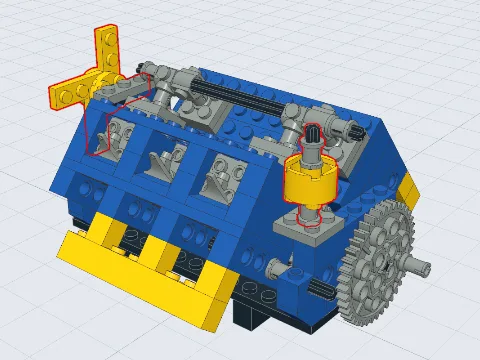
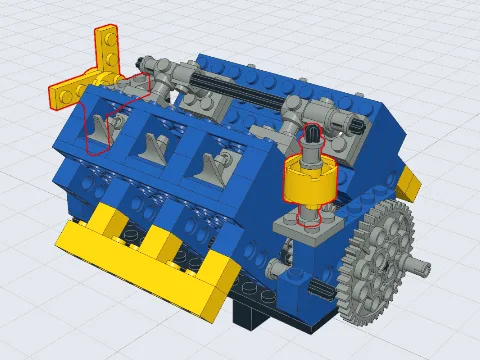
Stand the 858 V-6's cylinder banks a stud out on the bricks they hang from, so its crank turns in full
The model had each bank flush on the four 1 x 4 Technic bricks it hangs from, so the banks leaned 102 degrees apart, the crankshaft's gears were built into both, and the pistons ran into the taps at the cylinders' ends. With each bank a stud further out on those bricks, and the feet under them, the banks lean about 86 degrees apart and no two parts overlap; each tap stands as far from the crankshaft as on the boxer engine, which uses the same cylinder assembly. Peeron's scans of the instructions (8858-2) show the banks hung this way but are too coarse to show the stud; models/technic-sets.csv records the correction.

The V-6 is no longer WIP: README card and status line, data/wip-models.json, its function's source, a test of the banks' angle and the taps' distance, thumbnail and joints baseline.

diff --git a/tests/sets/858-auto-engines.test.ts b/tests/sets/858-auto-engines.test.ts
@@ -150,6 +150,22 @@ describe('858 Auto Engines: the V-6 engine', () => {
     expect(engine.turn(block, 0.5)).toBeCloseTo(0, 6);
   });
 
+  it("stands each bank a stud out on the 1 x 4 Technic bricks it hangs from (its file had them flush, so the banks leaned 102 degrees apart and the pistons ran into the taps; models/ corrects that): the banks lean about 86 degrees apart, and each tap stands as far from the crankshaft along its cylinder as on the boxer engine", () => {
+    const boxer = load('models/858-Auto Engines-Boxer Engine.mpd');
+    // How far a tap stands from the crankshaft (the x axis in the V-6, at y -38 in the boxer),
+    // along its cylinder (the tap's own z axis), and that axis.
+    const out = (part: { matrix: { elements: number[] } }, crankY: number) => {
+      const e = part.matrix.elements;
+      return { distance: Math.abs((e[13] - crankY) * e[9] + e[14] * e[10]), axis: [e[9], e[10]] };
+    };
+    const taps = parts.filter((p) => p.name === '3496c01.dat').map((p) => out(p, 0));
+    const boxerTaps = boxer.parts.filter((p) => p.name === '3496c01.dat').map((p) => out(p, -38));
+    expect(taps).toHaveLength(6);
+    for (const t of [...taps, ...boxerTaps]) expect(t.distance).toBeCloseTo(boxerTaps[0].distance, -0.5);
+    const [a, b] = [taps[0].axis, taps[5].axis];
+    expect((Math.acos(a[0] * b[0] + a[1] * b[1]) * 180) / Math.PI).toBeCloseTo(86.5, 0);
+  });
+
   it('turns its crank like a knob, as a drag would: the frame is the bigger bank, but the block the crankshaft turns in is held to it', () => {
     const crankshaft = mech.bodyOf[133];
     expect(kin.parentLink(crankshaft)!.parent).toBe(mech.bodyOf[0]);

diff --git a/README.md b/README.md
@@ -56,7 +56,7 @@ Read straight from their files in the [LDraw Official Model Repository](https://
 </tr>
 <tr>
 <td align="center" valign="top" width="33%"><a href="https://erik-larsen.github.io/kinebrick/?model=858-Auto+Engines-Inline+Engine&autospin=43"><img src="media/thumbs/858-auto-engines-inline-engine.webp" width="260" alt="858 Inline Engine"></a><h3><a href="https://erik-larsen.github.io/kinebrick/?model=858-Auto+Engines-Inline+Engine&autospin=43">858 Inline Engine</a><br><sub><i>1980</i></sub></h3>Three pistons, and a camshaft whose pins lift push rods that tip the valves.<details><summary>Details</summary><div align="left"><sub>Turn the crank, the 40 tooth gear with a pin for a handle, or Ctrl-click it as the card does, and its three pistons run up and down, rubber bands turn the fan and the distributor, and four pairs of 24 tooth gears turn the camshaft as fast as the crankshaft. Pins on the camshaft's gears lift the three push rods in turn, each up to 14 LDU, and each rod tips its valve's rocker on the axle across the top; between pins, a rod drops back onto the plate it stands through, and its rocker onto the rod, or the studs under it. KineBrick keeps each resting on whatever is highest under it, as gravity would. Its file had the camshaft 2 LDU off the hole it runs in, so its gears missed; that's corrected. Its round cap and its fan's plates, which meet the end of their axle pin rather than going on it, don't attach yet; they move with what they're next to.</sub></div></details><br></td>
-<td align="center" valign="top" width="33%"><a href="https://erik-larsen.github.io/kinebrick/?model=858-Auto+Engines-V-6+Engine&autospin=133"><img src="media/thumbs/858-auto-engines-v-6-engine.webp" width="260" alt="858 V-6 Engine"></a><h3><a href="https://erik-larsen.github.io/kinebrick/?model=858-Auto+Engines-V-6+Engine&autospin=133">858 V-6 Engine</a><br><sub><i>1980</i> · WIP</sub></h3>Six pistons in two banks in a V; its crank turns only part way yet.<details><summary>Details</summary><div align="left"><sub>WIP. Its two banks of three cylinders stand in a V, each hung on an axle along the block and held by an axle through both their tops. Turn the crank, the 40 tooth gear with a pin for a handle, or Ctrl-click it as the card does, and the pistons run in and out, and rubber bands turn the fan and the long axle along the side. But about a sixteenth of a turn either way, its connecting rods run into bricks of the other bank, with their studs, and further on its pistons into the taps on their cylinders, by more than parts rub, so the card's crank rocks back and forth. The model's banks and rods may be built a few LDU out from the real set's; without its instructions, that isn't corrected. Its round cap and its fan's plates don't attach yet, as on the inline engine.</sub></div></details><br></td>
+<td align="center" valign="top" width="33%"><a href="https://erik-larsen.github.io/kinebrick/?model=858-Auto+Engines-V-6+Engine&autospin=133"><img src="media/thumbs/858-auto-engines-v-6-engine.webp" width="260" alt="858 V-6 Engine"></a><h3><a href="https://erik-larsen.github.io/kinebrick/?model=858-Auto+Engines-V-6+Engine&autospin=133">858 V-6 Engine</a><br><sub><i>1980</i></sub></h3>Six pistons in two banks in a V; rubber bands turn its fan.<details><summary>Details</summary><div align="left"><sub>Its two banks of three cylinders stand in a V, each hung on an axle along the block and held by an axle through both their tops. Turn the crank, the 40 tooth gear with a pin for a handle, or Ctrl-click it as the card does, and the pistons run in and out, and rubber bands turn the fan and the long axle along the side, about 2.9 times as fast. Its file had each bank a stud too far in on the 1 x 4 Technic bricks it hangs from, so the banks leaned 102° apart, the crankshaft's gears were built into them, and its connecting rods and pistons ran into the banks and the taps on their cylinders; with each bank a stud further out, they lean about 86° apart and nothing touches. The instructions' scans are too coarse to show that stud, but it's where everything fits, as on the boxer engine. Its round cap and its fan's plates don't attach yet, as on the inline engine.</sub></div></details><br></td>
 <td align="center" valign="top" width="33%"><a href="https://erik-larsen.github.io/kinebrick/?model=8880-Super+Car&autospin=1401&turn=894,167.3"><img src="media/thumbs/8880-super-car.webp" width="260" alt="8880 Super Car"></a><h3><a href="https://erik-larsen.github.io/kinebrick/?model=8880-Super+Car&autospin=1401&turn=894,167.3">8880 Super Car</a><br><sub><i>1994</i></sub></h3>Four-wheel drive through three differentials, four-wheel steering, a four-speed gearbox and a V8.<details><summary>Details</summary><div align="left"><sub>1411 parts. Push it, or turn a wheel, and all four wheels drive it, through grooved balls in their hubs and three differentials. Its four-speed gearbox: move its gear lever into one of the four slots of its gate, which slides one of its two driving rings to one side or the other (or slide a ring yourself), and as the car rolls its V8 turns 2.25, 1.5, 0.75 or 0.5 times per turn of the wheels; with both in the middle, the engine stays still. Its steering wheel turns the front wheels one way and the rear ones the other, about half as far; each pair turns alike, so steered, its tyres scrub: up to 4% of how far they roll at full lock, within the 10% KineBrick allows (<a href="#options">Tyre scrub</a>). Its bodywork is set at angles on swivel and finger hinges, its seats tip on hinge plates, and its headlights pop up on a knob. Its file in the OMR has four mistakes, which KineBrick found because parts wouldn't attach or wouldn't mesh: an axle, a pin and a bracket out of place, and a plate missing under the rear steering rack. They're put right in <code>models/</code>, each with a comment saying how (the rear steering rack as the <a href="https://bricksafe.com">Bricksafe</a> reconstruction of the set builds it). The card opens it driving along.</sub></div></details><br></td>
 </tr>
 <tr>
@@ -108,7 +108,7 @@ KineBrick knows the moving parts of its own models and the most common ones in t
 
 Every [milestone](#milestones) of version 1.0, the kinematics, is done but M7.
 
-**Under way: M7, real LEGO sets, oldest first.** Every set under [Models](#models) works in full, except the 8448 Super Street Sensation, whose V8 engine works on its own, and the 858 Auto Engines' V-6 (WIP). Next: more sets.
+**Under way: M7, real LEGO sets, oldest first.** Every set under [Models](#models) works in full, except the 8448 Super Street Sensation, whose V8 engine works on its own. Next: more sets.
 
 **[Function check](ARCHITECTURE.md#the-function-check) on all 186 sets.** Each set's functions, from its instruction book, tried on its model.
 
